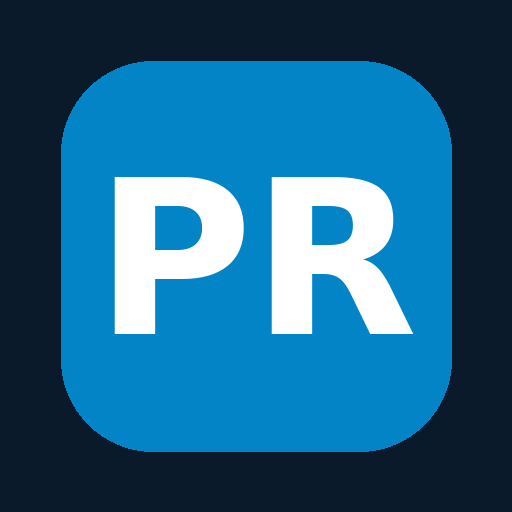
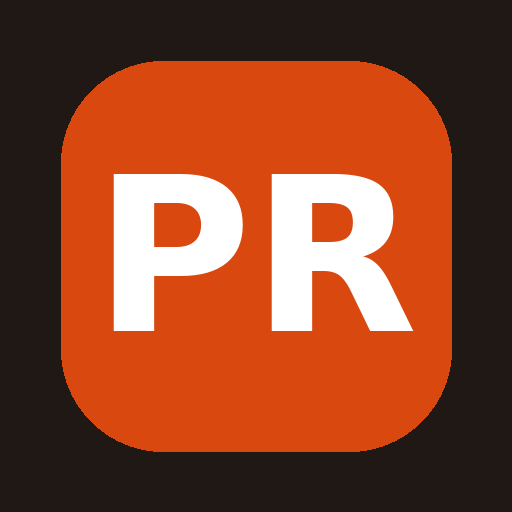
Rediseño: paleta anaranjada y acabado más profesional
Claude-Session: https://claude.ai/code/session_014bUnJxpSTh3TynBmoY7i3Q

diff --git a/app.css b/app.css
@@ -1,42 +1,44 @@
-:root{--bg:#f1f5f9;--ink:#0f172a;--mut:#64748b;--line:#e2e8f0;--brand:#0284c7;--brand-d:#0369a1;--ok:#16a34a;--warn:#f59e0b;--bad:#dc2626;--card:#fff}
+:root{--bg:#f5f4f2;--ink:#1c1917;--mut:#78716c;--line:#e7e5e4;--brand:#d9480f;--brand-d:#b83a0a;--soft:#fff3e8;--soft-line:#f6c9a3;--hdr:#1f1814;--hdr-mut:#fdba74;--ok:#15803d;--warn:#ea7a1a;--bad:#dc2626;--card:#fff;--sh:0 1px 2px rgba(28,25,23,.05),0 4px 14px rgba(28,25,23,.06)}
 *{box-sizing:border-box;margin:0;padding:0}
-body{font-family:system-ui,-apple-system,"Segoe UI",Roboto,sans-serif;background:var(--bg);color:var(--ink);font-size:16px;min-height:100vh}
-button{font:inherit;cursor:pointer;border:0;border-radius:10px;padding:10px 14px;font-weight:600}
+body{font-family:Inter,system-ui,-apple-system,"Segoe UI",Roboto,sans-serif;background:var(--bg);color:var(--ink);font-size:16px;min-height:100vh;font-variant-numeric:tabular-nums;-webkit-font-smoothing:antialiased}
+button{font:inherit;cursor:pointer;border:0;border-radius:10px;padding:10px 14px;font-weight:600;transition:background .15s,border-color .15s,box-shadow .15s}
+button:focus-visible,a:focus-visible{outline:3px solid rgba(217,72,15,.45);outline-offset:2px}
 input,select{font:inherit;padding:10px 12px;border:1.5px solid var(--line);border-radius:10px;background:#fff;width:100%}
-input:focus,select:focus{outline:none;border-color:var(--brand);box-shadow:0 0 0 3px rgba(2,132,199,.15)}
-.btn{background:var(--brand);color:#fff}.btn:hover{background:var(--brand-d)}
-.btn-ok{background:var(--ok);color:#fff}.btn-bad{background:#fee2e2;color:var(--bad)}.btn-line{background:#fff;border:1.5px solid var(--line);color:var(--ink)}
+input:focus,select:focus{outline:none;border-color:var(--brand);box-shadow:0 0 0 3px rgba(217,72,15,.18)}
+.btn{background:var(--brand);color:#fff;box-shadow:0 1px 0 rgba(0,0,0,.12)}.btn:hover{background:var(--brand-d)}
+.btn-ok{background:var(--ok);color:#fff}.btn-bad{background:#fee2e2;color:var(--bad)}.btn-line{background:#fff;border:1.5px solid var(--line);color:var(--ink)}.btn-line:hover{border-color:var(--brand);color:var(--brand-d)}
 .btn:disabled,.btn-ok:disabled{opacity:.45;cursor:not-allowed}
 @media print{header,nav,#toast,.noimp,#out-bar{display:none!important}body{background:#fff}.card{box-shadow:none;border:1px solid #ccc}}
-header{background:#0b1a2b;color:#fff;padding:12px 16px;display:flex;align-items:center;gap:12px;flex-wrap:wrap;position:sticky;top:0;z-index:10}
-header b{font-size:1.05rem}header small{color:#93c5fd;display:block;font-size:.75rem}
+header{background:var(--hdr);color:#fff;padding:12px 16px;display:flex;align-items:center;gap:12px;flex-wrap:wrap;position:sticky;top:0;z-index:10;border-bottom:3px solid var(--brand);box-shadow:0 2px 10px rgba(0,0,0,.18)}
+header b{font-size:1.05rem;letter-spacing:.01em}header small{color:var(--hdr-mut);display:block;font-size:.75rem}
 nav{display:flex;gap:6px;flex:1;overflow-x:auto}
-nav button{background:transparent;color:#cbd5e1;padding:8px 12px}
-nav button.on{background:var(--brand);color:#fff}
+nav button{background:transparent;color:#d6d3d1;padding:8px 12px}nav button:hover{background:rgba(255,255,255,.08);color:#fff}
+nav button.on{background:var(--brand);color:#fff;box-shadow:inset 0 -3px 0 rgba(255,255,255,.35)}
 main{max-width:1100px;margin:0 auto;padding:16px}
-h2{font-size:1.25rem;margin-bottom:12px}
+h2{font-size:1.3rem;margin-bottom:12px;letter-spacing:-.01em;font-weight:800}
 .grid{display:grid;gap:12px;grid-template-columns:repeat(auto-fill,minmax(130px,1fr))}
-.mesa{background:var(--card);border:2px solid var(--line);border-radius:14px;padding:16px 10px;text-align:center}
+.mesa{background:var(--card);border:2px solid var(--line);border-radius:12px;padding:16px 10px;text-align:center;box-shadow:var(--sh);transition:transform .12s,border-color .12s}.mesa:hover{border-color:var(--soft-line);transform:translateY(-1px)}
 .mesa b{display:block;font-size:1.5rem}.mesa span{font-size:.8rem;color:var(--mut)}
-.mesa.ocu{border-color:var(--warn);background:#fffbeb}.mesa.lis{border-color:var(--ok);background:#f0fdf4}
-.card{background:var(--card);border-radius:14px;padding:16px;box-shadow:0 1px 3px rgba(15,23,42,.06)}
+.mesa.ocu{border-color:var(--warn);background:var(--soft)}.mesa.lis{border-color:var(--ok);background:#f0fdf4}
+.card{background:var(--card);border-radius:12px;padding:16px;box-shadow:var(--sh);border:1px solid var(--line)}
 .cols{display:grid;gap:16px;grid-template-columns:1fr 340px}
 @media(max-width:820px){.cols{grid-template-columns:1fr}}
 .row{display:flex;align-items:center;justify-content:space-between;gap:10px;padding:10px 0;border-bottom:1px solid var(--line)}
 .row:last-child{border-bottom:0}
-.q{display:flex;align-items:center;gap:8px}.q button{width:34px;height:34px;padding:0;background:var(--line)}.q span{min-width:20px;text-align:center;font-weight:700}
+.q{display:flex;align-items:center;gap:8px}.q button{width:34px;height:34px;padding:0;background:var(--line)}.q button:hover{background:var(--soft-line)}.q span{min-width:20px;text-align:center;font-weight:700}
 .piso{font-size:.8rem;text-transform:uppercase;letter-spacing:.1em;color:var(--mut);margin:18px 0 8px;font-weight:700}
 .cat{font-size:.75rem;text-transform:uppercase;letter-spacing:.1em;color:var(--mut);margin:14px 0 4px;font-weight:700}
 .kan{display:grid;gap:12px;grid-template-columns:repeat(auto-fit,minmax(250px,1fr))}
 .col h3{font-size:.85rem;text-transform:uppercase;letter-spacing:.08em;margin-bottom:8px}
-.tk{background:#fff;border-left:5px solid var(--warn);border-radius:10px;padding:12px;margin-bottom:10px;box-shadow:0 1px 3px rgba(15,23,42,.08)}
+.tk{background:#fff;border-left:5px solid var(--warn);border-radius:10px;padding:12px;margin-bottom:10px;box-shadow:var(--sh)}
 .tk.p2{border-color:var(--brand)}.tk.p3{border-color:var(--ok)}
 .tk h4{display:flex;justify-content:space-between}.tk ul{margin:8px 0 10px 18px;font-size:.95rem}
 .tk em{display:block;color:var(--bad);font-size:.85rem;margin-bottom:8px}
 .pill{font-size:.72rem;padding:2px 8px;border-radius:99px;background:var(--line);color:var(--mut);font-weight:700}
-.total{display:flex;justify-content:space-between;font-weight:800;font-size:1.15rem;padding-top:10px}
+.total{display:flex;justify-content:space-between;font-weight:800;font-size:1.15rem;padding-top:10px;margin-top:4px;border-top:2px solid var(--ink)}
 .mut{color:var(--mut);font-size:.9rem}
 .login{max-width:380px;margin:12vh auto;padding:0 16px}
+.login .card{border-top:4px solid var(--brand);padding:22px}
 .login .card{display:grid;gap:12px}
 .stats{display:grid;gap:12px;grid-template-columns:repeat(auto-fit,minmax(160px,1fr));margin-bottom:16px}
 .stat b{display:block;font-size:1.6rem}
@@ -45,7 +47,7 @@ h2{font-size:1.25rem;margin-bottom:12px}
 .cols2{display:grid;gap:16px;grid-template-columns:320px 1fr}
 @media(max-width:820px){.cols2{grid-template-columns:1fr}}
 table{border-collapse:collapse}
-.hint{font-size:.8rem;color:var(--mut);background:#f8fafc;border-radius:10px;padding:10px}
+.hint{font-size:.8rem;color:var(--mut);background:var(--soft);border:1px solid var(--soft-line);border-radius:10px;padding:10px}
 .off{opacity:.45}
 #toast{position:fixed;left:12px;right:12px;top:64px;z-index:50;display:grid;gap:8px;pointer-events:none}
 #toast div{pointer-events:auto;padding:14px 16px;border-radius:12px;color:#fff;font-weight:800;font-size:1.1rem;box-shadow:0 8px 24px rgba(0,0,0,.35);animation:pulso .8s ease-in-out 6}

diff --git a/soporte.js b/soporte.js
@@ -167,7 +167,7 @@ function spChatHTML() {
   if (SP.chat.err) return `<div class="card" style="color:var(--bad)">${esc(SP.chat.err)}<div class="hint" style="margin-top:8px;color:var(--mut)">Falta ejecutar la migración resto_migracion_soporte.sql en Supabase.</div></div>`;
   if (!SP.chat.cargado) return '<p class="mut">Cargando conversaciones…</p>';
   const hs = spHilos(), sel = hs.find(h => h.lid === SP.chat.sel);
-  const lista = hs.map(h => `<button class="mesa" style="width:100%;text-align:left;padding:10px;${h.lid === SP.chat.sel ? 'border-color:var(--brand);background:#f0f9ff;' : ''}" data-sp="hilo" data-lid="${h.lid}"><b style="font-size:1rem;text-align:left">${esc(spNombreLocal(h.lid))}${h.pend ? ` <span class="pill" style="background:var(--bad);color:#fff">${h.pend} nuevo(s)</span>` : ''}</b><span>${esc((h.ult.autor === 'soporte' ? 'Tú: ' : '') + h.ult.texto.slice(0, 70))} · ${fdt(h.ult.created_at)}</span></button>`).join('') || '<p class="mut">Aún no hay conversaciones. Cuando un local escriba en el chat, aparecerá aquí.</p>';
+  const lista = hs.map(h => `<button class="mesa" style="width:100%;text-align:left;padding:10px;${h.lid === SP.chat.sel ? 'border-color:var(--brand);background:var(--soft);' : ''}" data-sp="hilo" data-lid="${h.lid}"><b style="font-size:1rem;text-align:left">${esc(spNombreLocal(h.lid))}${h.pend ? ` <span class="pill" style="background:var(--bad);color:#fff">${h.pend} nuevo(s)</span>` : ''}</b><span>${esc((h.ult.autor === 'soporte' ? 'Tú: ' : '') + h.ult.texto.slice(0, 70))} · ${fdt(h.ult.created_at)}</span></button>`).join('') || '<p class="mut">Aún no hay conversaciones. Cuando un local escriba en el chat, aparecerá aquí.</p>';
   const conv = sel ? `<div class="card" style="display:flex;flex-direction:column;gap:10px"><b>${esc(spNombreLocal(sel.lid))}</b>
       <div id="sp-msgs" style="max-height:52vh;overflow-y:auto;display:flex;flex-direction:column;gap:8px;padding:4px">${sel.msgs.map(chatBurbuja).join('')}</div>
       <div style="display:flex;gap:8px"><input id="sp-reply" data-keep placeholder="Escribe tu respuesta al local…" value="${fv('sp-reply')}" autocomplete="off"><button class="btn" data-sp="resp">Enviar</button></div>
@@ -277,9 +277,9 @@ function chatRoot() {
   let r = document.getElementById('chat-root');
   if (!r) {
     r = document.createElement('div'); r.id = 'chat-root'; r.style.display = 'none';
-    r.innerHTML = `<button id="chat-fab" aria-label="Ayuda y soporte" style="position:fixed;right:16px;bottom:16px;z-index:40;border-radius:99px;padding:14px 18px;background:var(--brand);color:#fff;box-shadow:0 6px 20px rgba(2,132,199,.45);font-size:1rem">💬 Ayuda<span id="chat-badge" style="display:none;margin-left:8px;background:var(--bad);border-radius:99px;padding:1px 8px;font-size:.8rem"></span></button>
+    r.innerHTML = `<button id="chat-fab" aria-label="Ayuda y soporte" style="position:fixed;right:16px;bottom:16px;z-index:40;border-radius:99px;padding:14px 18px;background:var(--brand);color:#fff;box-shadow:0 6px 20px rgba(217,72,15,.45);font-size:1rem">💬 Ayuda<span id="chat-badge" style="display:none;margin-left:8px;background:var(--bad);border-radius:99px;padding:1px 8px;font-size:.8rem"></span></button>
       <div id="chat-panel" style="display:none;position:fixed;right:12px;bottom:12px;z-index:41;width:min(380px,calc(100vw - 24px));height:min(560px,calc(100vh - 24px));background:#fff;border-radius:16px;box-shadow:0 12px 40px rgba(15,23,42,.35);flex-direction:column;overflow:hidden">
-        <div style="background:#0b1a2b;color:#fff;padding:12px 14px;display:flex;align-items:center;gap:10px"><div style="flex:1"><b>Ayuda Protech Resto</b><div id="chat-modo" style="font-size:.75rem;color:#93c5fd"></div></div><button id="chat-x" aria-label="Cerrar" style="background:transparent;color:#fff;font-size:1.3rem;padding:4px 10px">✕</button></div>
+        <div style="background:var(--hdr);color:#fff;padding:12px 14px;display:flex;align-items:center;gap:10px"><div style="flex:1"><b>Ayuda Protech Resto</b><div id="chat-modo" style="font-size:.75rem;color:var(--hdr-mut)"></div></div><button id="chat-x" aria-label="Cerrar" style="background:transparent;color:#fff;font-size:1.3rem;padding:4px 10px">✕</button></div>
         <div id="chat-msgs" style="flex:1;overflow-y:auto;padding:12px;display:flex;flex-direction:column;gap:8px;background:#f8fafc"></div>
         <div id="chat-chips" style="padding:6px 10px 0;display:flex;gap:6px;flex-wrap:wrap"></div>
         <div style="display:flex;gap:8px;padding:10px"><input id="chat-in" placeholder="Escribe tu duda…" autocomplete="off" maxlength="500"><button class="btn" id="chat-send">Enviar</button></div>

diff --git a/app.js b/app.js
@@ -342,20 +342,20 @@ async function inicio() {
 function loginHTML() {
   if (S.loading) return `<div class="login"><div class="card"><div class="mut">Cargando…</div></div></div>`;
   if (S.setpass) return `<div class="login"><div class="card">
-    <div><b style="font-size:1.4rem">PROTECH <span style="color:#0284c7">RESTO</span></b><div class="mut">Crea tu clave para entrar</div></div>
+    <div><b style="font-size:1.4rem">PROTECH <span style="color:var(--brand)">RESTO</span></b><div class="mut">Crea tu clave para entrar</div></div>
     <label class="mut">Clave nueva (mínimo 8 caracteres)<input id="np1" type="password" autocomplete="new-password"></label>
     <label class="mut">Repite la clave<input id="np2" type="password" autocomplete="new-password"></label>
     ${S.err ? `<div style="color:var(--bad);font-size:.9rem">${esc(S.err)}</div>` : ''}
     <button class="btn" data-act="guardarclave" ${S.busy ? 'disabled' : ''}>Guardar clave y entrar</button></div></div>`;
   if (S.olvide) return `<div class="login"><div class="card">
-    <div><b style="font-size:1.4rem">PROTECH <span style="color:#0284c7">RESTO</span></b><div class="mut">Crear o recuperar mi clave</div></div>
+    <div><b style="font-size:1.4rem">PROTECH <span style="color:var(--brand)">RESTO</span></b><div class="mut">Crear o recuperar mi clave</div></div>
     <label class="mut">Correo del local<input id="rmail" type="email" autocomplete="username" placeholder="local@correo.cl"></label>
     ${S.err ? `<div style="color:var(--bad);font-size:.9rem">${esc(S.err)}</div>` : ''}
     ${S.ok ? `<div style="color:var(--ok);font-size:.9rem">${esc(S.ok)}</div>` : ''}
     <button class="btn" data-act="enviarlink" ${S.busy ? 'disabled' : ''}>Enviarme un enlace al correo</button>
     <button class="btn-line" data-act="volverlogin">Volver</button></div></div>`;
   return `<div class="login"><div class="card">
-    <div><b style="font-size:1.4rem">PROTECH <span style="color:#0284c7">RESTO</span></b><div class="mut">Pedidos y comandas para restaurantes y cafeterías</div></div>
+    <div><b style="font-size:1.4rem">PROTECH <span style="color:var(--brand)">RESTO</span></b><div class="mut">Pedidos y comandas para restaurantes y cafeterías</div></div>
     <label class="mut">Correo del local<input id="lmail" type="email" autocomplete="username" placeholder="local@correo.cl"></label>
     <label class="mut">Clave<input id="lpass" type="password" autocomplete="current-password" placeholder="••••••••"></label>
     ${S.err ? `<div style="color:var(--bad);font-size:.9rem">${esc(S.err)}</div>` : ''}
@@ -383,7 +383,7 @@ function mesasHTML() {
   const tarjeta = n => {
     const a = abiertas(n), lis = a.some(c => c.estado === 'listo');
     const rv = !a.length && resDe(n);
-    return `<button class="mesa ${lis ? 'lis' : a.length ? 'ocu' : ''}" ${rv ? 'style="border-color:var(--brand);background:#f0f9ff"' : ''} data-act="mesa" data-n="${n}"><b>${n > 100 ? n - 100 : n}</b>
+    return `<button class="mesa ${lis ? 'lis' : a.length ? 'ocu' : ''}" ${rv ? 'style="border-color:var(--brand);background:var(--soft)"' : ''} data-act="mesa" data-n="${n}"><b>${n > 100 ? n - 100 : n}</b>
       <span>${lis ? 'Pedido listo' : a.length ? 'Ocupada · ' + money(totalMesa(n)) + (a.find(c => c.garzon) ? '<br><b>' + esc(a.find(c => c.garzon).garzon) + '</b>' : '') : rv ? 'Reservada ' + esc(rv.hora) + ' · ' + esc(rv.nombre) : 'Libre'}</span></button>`;
   };
   for (let n = 1; n <= l.mesas; n++) g += tarjeta(n);
@@ -1286,7 +1286,7 @@ function outBar() {
   if (!el) { el = document.createElement('div'); el.id = 'offbar'; el.style.cssText = 'position:fixed;left:0;right:0;bottom:0;z-index:60;padding:8px 14px;font-weight:700;text-align:center;color:#fff;font-size:.95rem'; document.body.appendChild(el); }
   const off = navigator.onLine === false || S.sinRed;
   if (!OUT.length && !off) { el.style.display = 'none'; return; }
-  el.style.display = 'block'; el.style.background = off ? '#b45309' : '#0369a1';
+  el.style.display = 'block'; el.style.background = off ? '#b45309' : '#1c1917';
   el.textContent = off ? '📶 Sin conexión' + (OUT.length ? ' · ' + OUT.length + ' operación(es) guardada(s), se enviarán solas' : ' · puedes seguir tomando pedidos y cobrando mesas') : '⏳ Enviando ' + OUT.length + ' operación(es) pendiente(s)…';
 }
 function comandaOpt(f) { return { id: f.id, mesa: f.mesa, items: f.items, est: (f.items && f.items[0] && f.items[0].e === 'cafeteria') ? 'cafeteria' : 'cocina', note: f.nota || '', estado: f.estado, garzon: f.garzon || '', t: f.t || Date.now(), cerrada: false }; }

diff --git a/pedir.html b/pedir.html
@@ -4,16 +4,16 @@
 <meta charset="UTF-8">
 <meta name="viewport" content="width=device-width, initial-scale=1.0, viewport-fit=cover">
 <title>Haz tu pedido · Protech Resto</title>
-<meta name="theme-color" content="#0284c7">
+<meta name="theme-color" content="#d9480f">
 <style>
-:root{--bg:#f1f5f9;--ink:#0f172a;--mut:#64748b;--line:#e2e8f0;--brand:#0284c7;--brand-d:#0369a1;--ok:#16a34a;--bad:#dc2626;--card:#fff}
+:root{--bg:#f5f4f2;--ink:#1c1917;--mut:#78716c;--line:#e7e5e4;--brand:#d9480f;--brand-d:#b83a0a;--ok:#15803d;--bad:#dc2626;--card:#fff}
 *{box-sizing:border-box;margin:0;padding:0}
 body{font-family:system-ui,-apple-system,"Segoe UI",Roboto,sans-serif;background:var(--bg);color:var(--ink);font-size:16px;min-height:100vh;padding-bottom:96px}
 button{font:inherit;cursor:pointer;border:0;border-radius:12px;padding:12px 16px;font-weight:700}
 input,textarea{font:inherit;padding:12px;border:1.5px solid var(--line);border-radius:12px;background:#fff;width:100%}
-input:focus,textarea:focus{outline:none;border-color:var(--brand);box-shadow:0 0 0 3px rgba(2,132,199,.15)}
-header{background:#0b1a2b;color:#fff;padding:14px 16px;position:sticky;top:0;z-index:10}
-header b{font-size:1.15rem;display:block}header small{color:#93c5fd}
+input:focus,textarea:focus{outline:none;border-color:var(--brand);box-shadow:0 0 0 3px rgba(217,72,15,.18)}
+header{background:#1f1814;border-bottom:3px solid var(--brand);color:#fff;padding:14px 16px;position:sticky;top:0;z-index:10}
+header b{font-size:1.15rem;display:block}header small{color:#fdba74}
 main{max-width:640px;margin:0 auto;padding:16px}
 .cat{font-size:.78rem;text-transform:uppercase;letter-spacing:.1em;color:var(--mut);margin:20px 0 8px;font-weight:800}
 .item{background:var(--card);border-radius:14px;padding:12px 14px;display:flex;align-items:center;justify-content:space-between;gap:12px;margin-bottom:8px;box-shadow:0 1px 3px rgba(15,23,42,.06)}
@@ -24,7 +24,7 @@ main{max-width:640px;margin:0 auto;padding:16px}
 .q span{min-width:22px;text-align:center;font-weight:800}
 .bar{position:fixed;left:0;right:0;bottom:0;padding:12px 16px calc(12px + env(safe-area-inset-bottom));background:#fff;border-top:1px solid var(--line);box-shadow:0 -4px 16px rgba(15,23,42,.08)}
 .bar button{width:100%;background:var(--brand);color:#fff;font-size:1.05rem;padding:15px;display:flex;justify-content:space-between}
-.bar button:disabled{background:#cbd5e1}
+.bar button:disabled{background:#d6d3d1}
 .card{background:var(--card);border-radius:16px;padding:18px;box-shadow:0 1px 3px rgba(15,23,42,.06)}
 .row{display:flex;justify-content:space-between;gap:10px;padding:8px 0;border-bottom:1px solid var(--line)}
 .row:last-child{border-bottom:0}

diff --git a/index.html b/index.html
@@ -4,20 +4,20 @@
 <meta charset="UTF-8">
 <meta name="viewport" content="width=device-width, initial-scale=1.0, viewport-fit=cover">
 <title>Protech Resto · Pedidos y comandas</title>
-<meta name="theme-color" content="#0284c7">
+<meta name="theme-color" content="#d9480f">
 <link rel="manifest" href="manifest.webmanifest">
 <link rel="icon" href="icons/icon-192.png">
 <link rel="apple-touch-icon" href="icons/icon-192.png">
 <meta name="mobile-web-app-capable" content="yes">
 <meta name="apple-mobile-web-app-capable" content="yes">
-<link rel="stylesheet" href="app.css?v=2">
+<link rel="stylesheet" href="app.css?v=3">
 </head>
 <body>
 <div id="app"></div>
 <div id="toast"></div>
 <script src="https://cdn.jsdelivr.net/npm/@supabase/supabase-js@2"></script>
 <script src="https://cdnjs.cloudflare.com/ajax/libs/qrcode-generator/1.4.4/qrcode.min.js"></script>
-<script src="soporte.js?v=1"></script>
-<script src="app.js?v=5"></script>
+<script src="soporte.js?v=2"></script>
+<script src="app.js?v=6"></script>
 </body>
 </html>

diff --git a/sw.js b/sw.js
@@ -2,7 +2,7 @@
    - Archivos de la app: primero la red (así siempre llega la versión nueva) y, si no hay internet, la copia guardada.
    - Librerías externas (CDN): se guardan y se refrescan en segundo plano.
    - La base de datos (Supabase) nunca pasa por aquí. */
-const V = 'resto-v4';
+const V = 'resto-v5';
 const BASE = ['./', 'index.html', 'app.js', 'app.css', 'soporte.js', 'manifest.webmanifest', 'icons/icon-192.png', 'icons/icon-512.png'];
 const CDN = ['cdn.jsdelivr.net', 'cdnjs.cloudflare.com'];
 self.addEventListener('install', e => { e.waitUntil(caches.open(V).then(c => c.addAll(BASE).catch(() => {})).then(() => self.skipWaiting())); });
